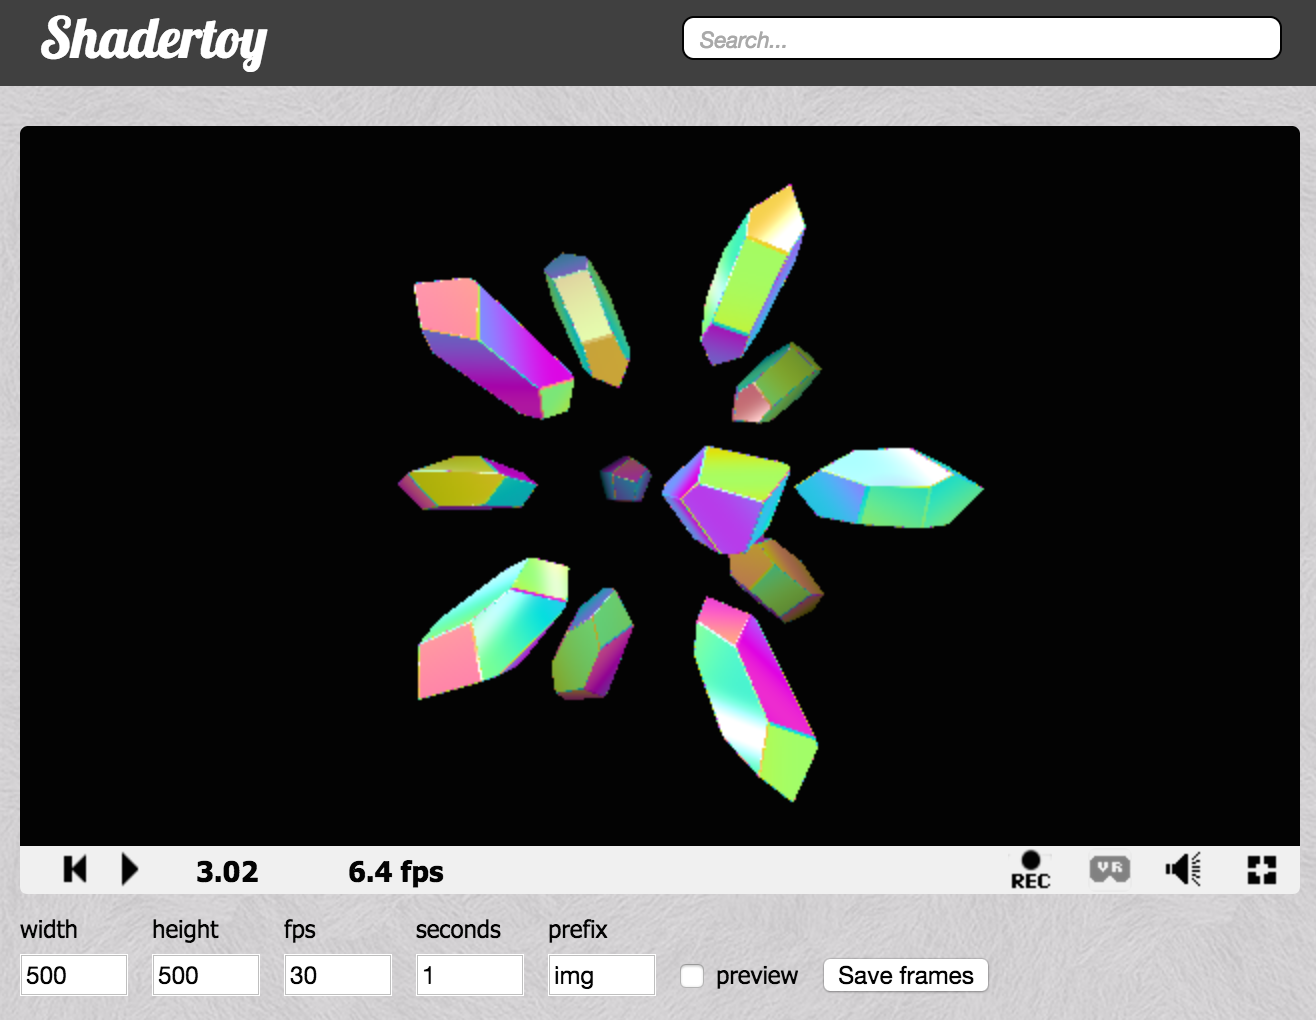
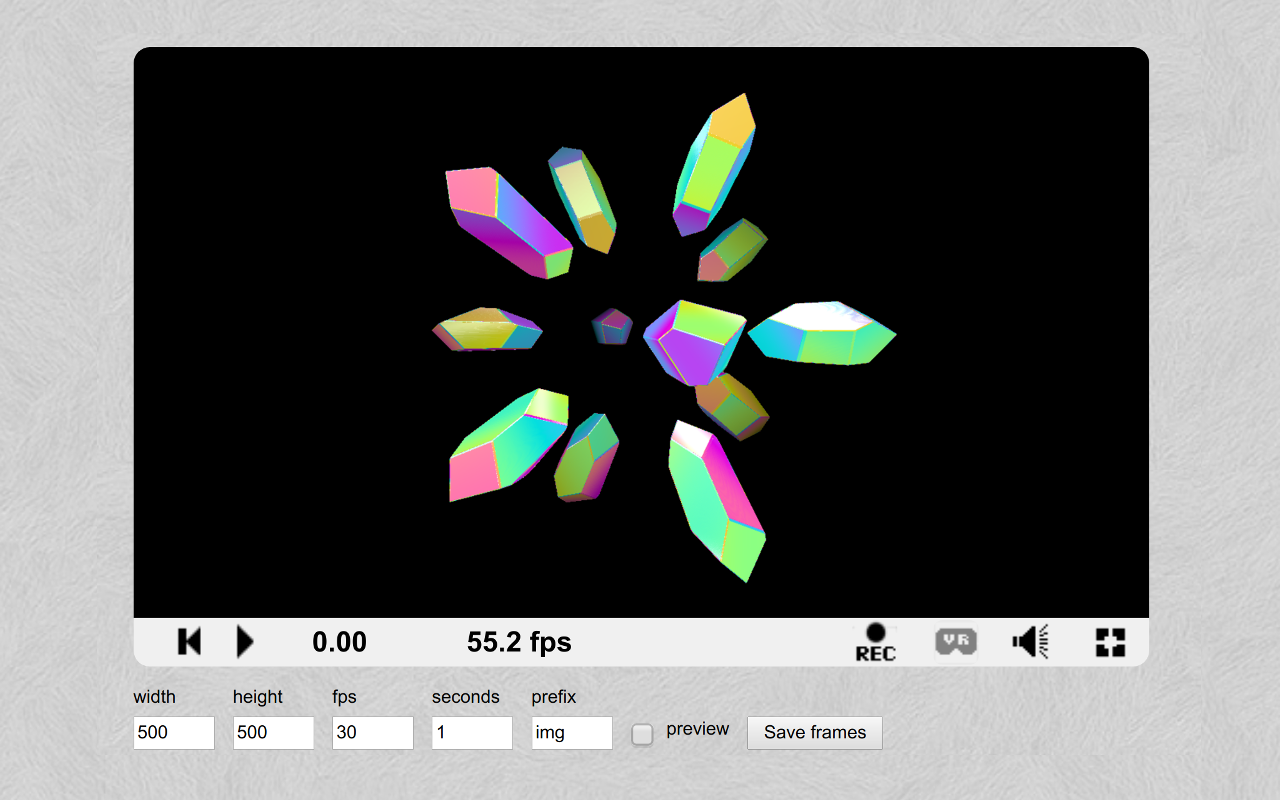
Add extension links, update screenshot, add make script

diff --git a/README.md b/README.md
@@ -2,9 +2,17 @@
 
 Save PNG frames from Shadertoy
 
-<img src="/screenshot.png?raw=true" alt="Screenshot" width="658" height="510" />
+<img src="/screenshot.png?raw=true" alt="Screenshot" width="640" height="400" />
 
 ## Installation
+
+### Chrome
+https://chrome.google.com/webstore/detail/shadertoy-frame-saver/bkompdalfpocndfcbcdajnfkjklbecjn
+
+### Firefox
+https://addons.mozilla.org/en-GB/firefox/addon/shadertoy-frame-saver/
+
+## Development
 
 First checkout this repo, then:
 
